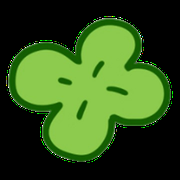
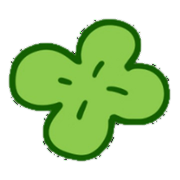
fix: 검색결과 파비콘 배경 투명 처리

diff --git a/pages/_document.tsx b/pages/_document.tsx
@@ -42,9 +42,15 @@ export default class ResumeDocument extends Document<DocumentProps> {
           <meta charSet="utf-8" />
           {/* iOS 가 본문 숫자를 전화번호 링크로 바꾸는 것을 막는다 (본문 안에 두면 HTML 유효성 위반) */}
           <meta name="format-detection" content="telephone=no" />
-          {/* 파비콘: 브라우저 탭용 32x32 PNG, iOS 홈 화면용 180x180 */}
+          {/* 파비콘: 브라우저 탭용 32x32 PNG, 검색결과용 192x192, iOS 홈 화면용 180x180 */}
           {/* public/ 에서 정적 파일로 제공한다. asset import 는 base64 인라인되어 HTML 을 키운다 */}
           <link rel="icon" type="image/png" sizes="32x32" href="/favicon-32x32.png" />
+          {/**
+           * 구글 검색은 48px 배수 크기의 파비콘을 요구한다. 이 링크가 없으면
+           * apple-touch-icon(180px)을 대신 집어 가는데, iOS 용이라 배경이 불투명해
+           * 검색결과 원형 아이콘에 배경색이 그대로 드러난다.
+           */}
+          <link rel="icon" type="image/png" sizes="192x192" href="/icon-192x192.png" />
           <link rel="apple-touch-icon" sizes="180x180" href="/apple-touch-icon.png" />
           {/* 웹폰트 CDN 연결을 미리 열어 첫 렌더의 폰트 대기 시간을 줄인다 */}
           <link rel="preconnect" href="https://cdn.jsdelivr.net" crossOrigin="anonymous" />
